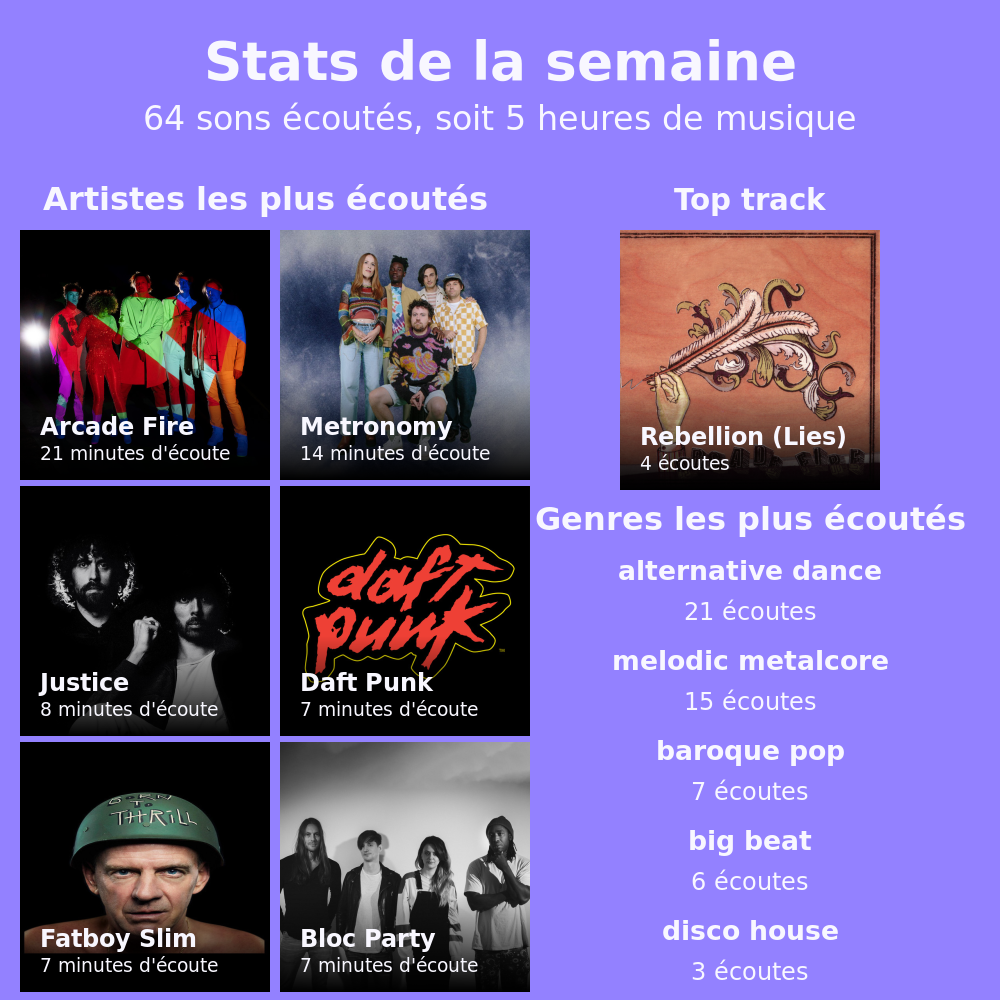
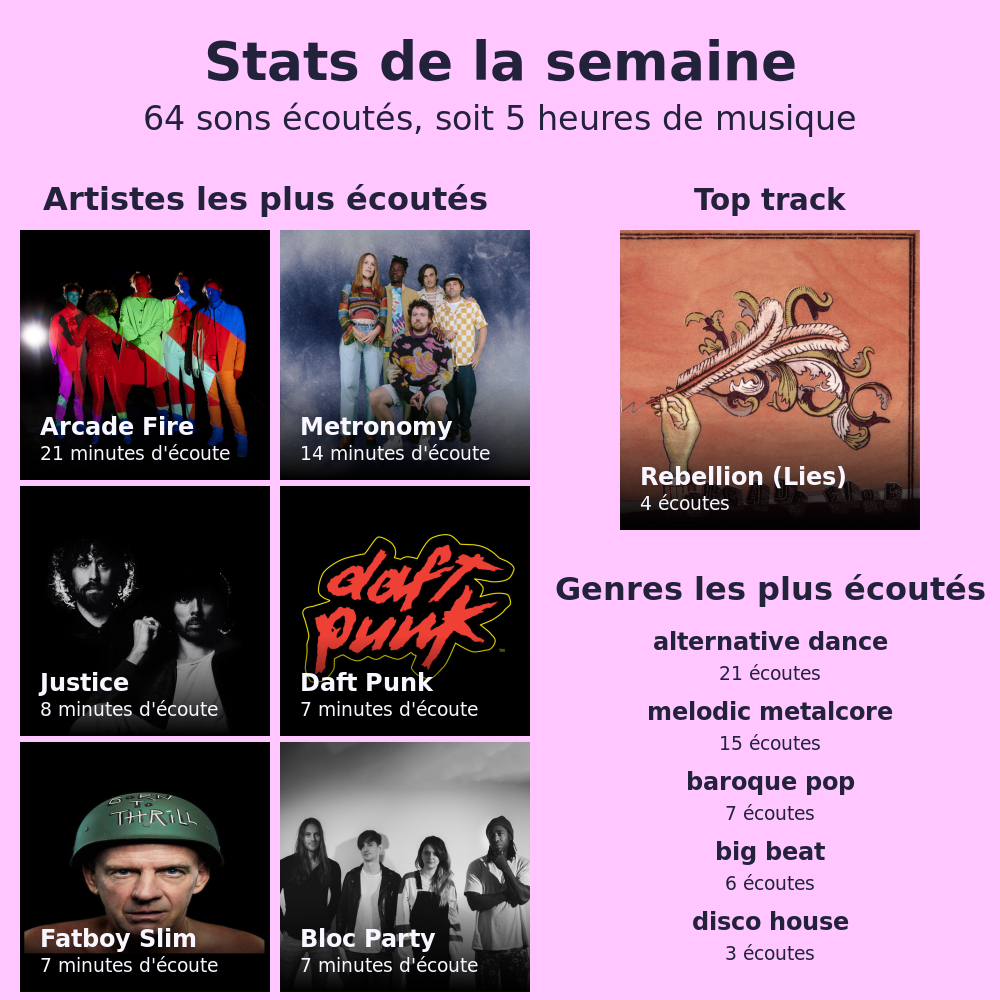
add nice colors and align text

diff --git a/src/matcha.js b/src/matcha.js
@@ -116,13 +116,26 @@ async function generateStatsImg(interval) {
   const HEIGHT = 1000;
   const canvas = createCanvas(WIDTH, HEIGHT);
   const ctx = canvas.getContext("2d");
-  ctx.fillStyle = "#9381ff";
+  const palettes = [
+    { bg: "#9381ff", txt: "#f8f7ff" },
+    { bg: "#7400b8", txt: "#f8f7ff" },
+    { bg: "#2a9d8f", txt: "#f8f7ff" },
+    { bg: "#f77f00", txt: "#f8f7ff" },
+    { bg: "#ef476f", txt: "#f8f7ff" },
+    { bg: "#6fffe9", txt: "#22223b" },
+    { bg: "#ffd6a5", txt: "#22223b" },
+    { bg: "#ffadad", txt: "#22223b" },
+    { bg: "#ffc6ff", txt: "#22223b" },
+    { bg: "#2b2d42", txt: "#f8f7ff" },
+  ];
+  const idx = Math.floor(Math.random() * 10);
+  ctx.fillStyle = palettes[idx].bg;
   ctx.fillRect(0, 0, WIDTH, HEIGHT);
 
   // TITLE
   ctx.font = "bold 40pt ";
   ctx.textAlign = "center";
-  ctx.fillStyle = "#f8f7ff";
+  ctx.fillStyle = palettes[idx].txt;
   ctx.fillText(
     `Stats ${interval == "month" ? "du mois" : "de la semaine"}`,
     500,
@@ -141,26 +154,27 @@ async function generateStatsImg(interval) {
   ctx.font = "22pt";
   ctx.textAlign = "center";
 
-  const gradient = ctx.createLinearGradient(0, 230, 0, 490);
+  const gradient = ctx.createLinearGradient(0, 230, 0, 530);
   gradient.addColorStop(0.6, "rgba(0,0,0,0)");
   gradient.addColorStop(1, "black");
   const topTrackImg = await loadImage(await downloadAsBuffer(topTrackURL));
-  ctx.drawImage(topTrackImg, 620, 230, 260, 260);
+  ctx.drawImage(topTrackImg, 620, 230, 300, 300);
   ctx.fillStyle = gradient;
-  ctx.fillRect(620, 230, 260, 260);
-  ctx.fillStyle = "#f8f7ff";
+  ctx.fillRect(620, 230, 300, 300);
+  ctx.fillStyle = palettes[idx].txt;
   ctx.textAlign = "center";
   ctx.font = "bold 22pt ";
-  ctx.fillText(`Top track`, 750, 210, 900);
+  ctx.fillText(`Top track`, 770, 210);
   ctx.font = "bold 18pt ";
   ctx.textAlign = "left";
+  ctx.fillStyle = "#f8f7ff";
 
-  ctx.fillText(`${stats.topTrack.name}`, 640, 445, 250);
+  ctx.fillText(`${stats.topTrack.name}`, 640, 485, 280);
   ctx.font = "14pt ";
-  ctx.fillText(`${stats.topTrack.counting} écoutes`, 640, 470, 250);
+  ctx.fillText(`${stats.topTrack.counting} écoutes`, 640, 510, 280);
 
   // TOP ARTISTS
-  ctx.fillStyle = "#f8f7ff";
+  ctx.fillStyle = palettes[idx].txt;
   ctx.font = "bold 24pt ";
   ctx.textAlign = "center";
 
@@ -211,15 +225,15 @@ async function generateStatsImg(interval) {
   // TOP GENRES
   ctx.font = "bold 24pt ";
   ctx.textAlign = "center";
+  ctx.fillStyle = palettes[idx].txt;
 
-  ctx.fillText(`Genres les plus écoutés`, 750, 530);
+  ctx.fillText(`Genres les plus écoutés`, 770, 600);
 
   stats.topGenres.forEach((genre, i) => {
-    ctx.font = "bold 20pt ";
-
-    ctx.fillText(`${genre.genre}`, 750, 580 + 90 * i, 400);
-    ctx.font = "18pt ";
-    ctx.fillText(`${genre.counting} écoutes`, 750, 580 + 90 * i + 40, 400);
+    ctx.font = "bold 18pt ";
+    ctx.fillText(`${genre.genre}`, 770, 650 + 70 * i, 400);
+    ctx.font = "14pt ";
+    ctx.fillText(`${genre.counting} écoutes`, 770, 650 + 70 * i + 30, 400);
   });
 
   // SAVE IMG
